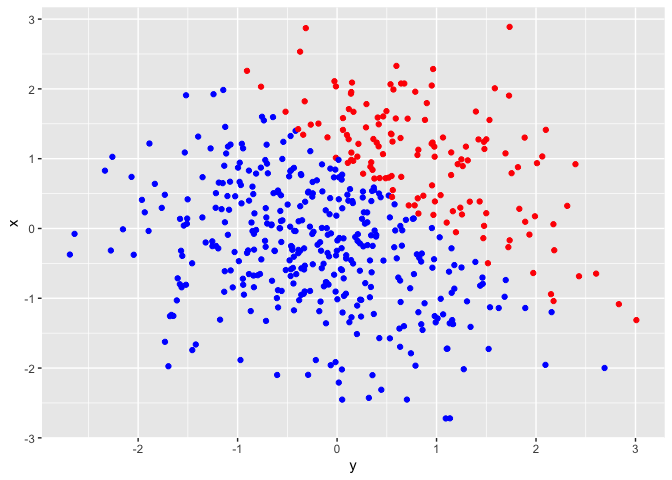
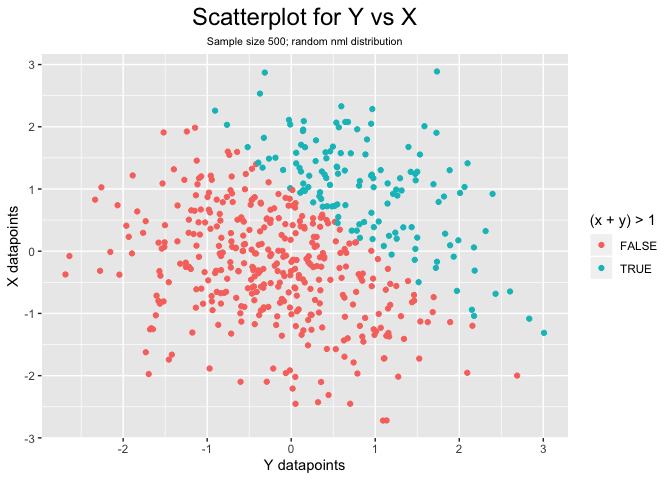
Finished the core of problem 2. Modified variables' names to be more succint. Added plots

diff --git a/P8105_HW1_ksw2137.md b/P8105_HW1_ksw2137.md
@@ -22,13 +22,13 @@ set.seed(2)
 
 ## Creates a data-frame that is composed of vectors below
 prob1_df <- tibble(
-  sample = rnorm(8),                              ## Vector for random normal-distributed sample of size 8
-  vec_logic = sample > 0,                         ## Logical vector that evaluates if elements in sample > 0
-  vec_char = c("GitHub", "is", "super",           ## Character vector with 8 variables ("length == 8")
+  df_sample = rnorm(8),                              ## Vector for random normal-distributed sample of size 8
+  df_vec_logic = df_sample > 0,                         ## Logical vector that evaluates if elements in sample > 0
+  df_vec_char = c("GitHub", "is", "super",           ## Character vector with 8 variables ("length == 8")
                "interesting", "and", "awesome", 
                "I", "can't even..."),
-  vec_fac = factor(c("corn", "not corn", "corn",  ## Factor vector size 8 with 3 levels: "corn", 
-              "maybe corn", "corn", "maybe corn", ## "maybe corn", "not corn"
+  df_vec_fac = factor(c("corn", "not corn", "corn",  ## Factor vector size 8 with 3 levels: "corn", 
+              "maybe corn", "corn", "maybe corn",    ## "maybe corn", "not corn"
               "corn", "not corn"))
 )
 
@@ -36,38 +36,38 @@ prob1_df <- tibble(
 ## pull() function pulls the vectors inside prob1_df and turns it into usable variables outside the df. This is 
 ## inconvenient at this point but makes downstream access to these vectors easier. 
 ## Using prob1_df$vector was considered bad syntax and was not utilized
-var_sample <- pull(prob1_df, sample)
-var_vec_logic <- pull(prob1_df, vec_logic)
-var_vec_char <- pull(prob1_df, vec_char)
-var_vec_fac <- pull(prob1_df, vec_fac)
+sample <- pull(prob1_df, df_sample)
+vec_logic <- pull(prob1_df, df_vec_logic)
+vec_char <- pull(prob1_df, df_vec_char)
+vec_fac <- pull(prob1_df, df_vec_fac)
 
 
 ## Takes the mean for each vectors
-mean(var_sample)
+mean(sample)
 ```
 
     ## [1] 0.03322869
 
 ``` r
-mean(var_vec_logic)
+mean(vec_logic)
 ```
 
     ## [1] 0.5
 
 ``` r
-mean(var_vec_char)
+mean(vec_char)
 ```
 
-    ## Warning in mean.default(var_vec_char): argument is not numeric or logical:
+    ## Warning in mean.default(vec_char): argument is not numeric or logical:
     ## returning NA
 
     ## [1] NA
 
 ``` r
-mean(var_vec_fac)
+mean(vec_fac)
 ```
 
-    ## Warning in mean.default(var_vec_fac): argument is not numeric or logical:
+    ## Warning in mean.default(vec_fac): argument is not numeric or logical:
     ## returning NA
 
     ## [1] NA
@@ -77,19 +77,19 @@ continuous variable. Logical vector surprisingly spits out a mean of
 0.5. Looking into `prob1_df` seems to indicate that `FALSE` = 0 while
 `TRUE` = 1, which leads to 4/8 TRUE, hence the calculated mean.
 
-Mean for `var_vec_char` & `var_vec_fac` however, does not work. This is
-likely because characters are not read as “numbers” and therefore cannot
-be mathematically manipulated.
+Mean for `vec_char` & `vec_fac` however, does not work. This is likely
+because characters are not read as “numbers” and therefore cannot be
+mathematically manipulated.
 
 ## *Problem 1.b*
 
-Applying the as.numeric() function to logical, character, and factor
+Applying the `as.numeric()` function to logical, character, and factor
 variables:
 
 ``` r
-as.numeric(var_vec_logic)
-as.numeric(var_vec_char)
-as.numeric(var_vec_fac)
+as.numeric(vec_logic)
+as.numeric(vec_char)
+as.numeric(vec_fac)
 ```
 
 The command outputs a numeric value that represents each element in the
@@ -102,23 +102,23 @@ In the following code chunk, we explore this
 peculiarity:
 
 ``` r
-as.numeric(var_vec_logic) * var_sample      ## Convert logical vector to numeric then multiplied with sample
+as.numeric(vec_logic) * sample      ## Convert logical vector to numeric then multiplied with sample
 ```
 
     ## [1] 0.0000000 0.1848492 1.5878453 0.0000000 0.0000000 0.1324203 0.7079547
     ## [8] 0.0000000
 
 ``` r
-as.factor(var_vec_logic) * var_sample       ## Convert logical vector to factor then multiplied with sample
+as.factor(vec_logic) * sample       ## Convert logical vector to factor then multiplied with sample
 ```
 
-    ## Warning in Ops.factor(as.factor(var_vec_logic), var_sample): '*' not
-    ## meaningful for factors
+    ## Warning in Ops.factor(as.factor(vec_logic), sample): '*' not meaningful for
+    ## factors
 
     ## [1] NA NA NA NA NA NA NA NA
 
 ``` r
-as.numeric(as.factor(var_vec_logic)) * var_sample ## Convert logical vector to factor then numeric then multiplied                                                       with sample
+as.numeric(as.factor(vec_logic)) * sample ## Convert logical vector to factor then numeric then multiplied                                                       with sample
 ```
 
     ## [1] -0.89691455  0.36969837  3.17569066 -1.13037567 -0.08025176  0.26484057
@@ -140,25 +140,27 @@ Data frame for problem 2.
 
 ``` r
 prob2_df <- tibble(
-  x = rnorm(500),                ## Vector 1 of random normal distribution sample; size 500 
-  y = rnorm(500),                ## Vector 2 of random normal distribution sample; size 500 
-  xy_logic = (x + y) > 1,        ## Logical vector that evaluates the argument x + y > 1
-  xy_num = as.numeric(xy_logic), ## Vector that coerces xy_logic to be numeric vector
-  xy_fac = as.factor(xy_logic)   ## Vector that coerces xy_logic to a factor vector
+  df_x = rnorm(500),                   ## Vector 1 of random normal distribution sample; size 500 
+  df_y = rnorm(500),                   ## Vector 2 of random normal distribution sample; size 500 
+  df_xy_logic = (df_x + df_y) > 1,     ## Logical vector that evaluates the argument x + y > 1
+  df_xy_num = as.numeric(df_xy_logic), ## Vector that coerces xy_logic to be numeric vector
+  df_xy_fac = as.factor(df_xy_logic)   ## Vector that coerces xy_logic to a factor vector
 )
 
 
 ## pulls variable from prob2_df out of the df so it's usable outside
-var_x <- pull(prob2_df, x)
-var_xy_logic <- pull(prob2_df, xy_logic)
+x <- pull(prob2_df, df_x)
+xy_logic <- pull(prob2_df, df_xy_logic)
+xy_num <- pull(prob2_df, df_xy_num)
+xy_fac <- pull(prob2_df, df_xy_fac)
 ```
 
 The `prob2_df` dataframe is a dataset of 2500 points in a grid of 500
 rows X 5 columns. Columns contain values for `x`, `y`, `xy_logic`,
 `xy_num`, and `xy_fac`.
 
-The `x` column has a mean of 0.062682, median of 0.0439172, and standard
-deviation of 1.0322115.
+The `x` column has a mean (sd) of 0.062682, median of 0.0439172, and
+standard deviation of 1.0322115.
 
 The proportion of `TRUE` cases where `(x + y) > 1` is 134/500, which is
 26.8%.
@@ -171,10 +173,31 @@ second and third scatterplot that color points using the numeric and
 factor variables, respectively, and comment on the color scales.
 
 ``` r
-ggplot(data = prob2_df) + 
-  geom_point(aes(x = y, y = x), col = ifelse(var_xy_logic == TRUE, "red", "blue"))
+ggplot(data = prob2_df, aes(x = df_y, y = df_x, color = df_xy_logic)) + 
+  geom_point() +
+  labs(title = "Scatterplot for Y vs X", 
+       subtitle = "Sample size 500; random nml distribution",
+       x = "Y datapoints",
+       y = "X datapoints",
+       color = "(x + y) > 1") +
+  theme(plot.title = element_text(hjust = 0.5, size = 18),
+        plot.subtitle = element_text(hjust = 0.5, size = 8))
 ```
 
 ![](P8105_HW1_ksw2137_files/figure-gfm/unnamed-chunk-1-1.png)<!-- -->
+
+``` r
+ggplot(data = prob2_df, aes(x = df_y, y = df_x, col = df_xy_num)) +
+  geom_point()
+```
+
+![](P8105_HW1_ksw2137_files/figure-gfm/unnamed-chunk-1-2.png)<!-- -->
+
+``` r
+ggplot(data = prob2_df, aes(x = df_y, y = df_x, col = df_xy_fac)) +
+  geom_point()
+```
+
+![](P8105_HW1_ksw2137_files/figure-gfm/unnamed-chunk-1-3.png)<!-- -->
 
 Export your first scatterplot to your project directory using ggsave
